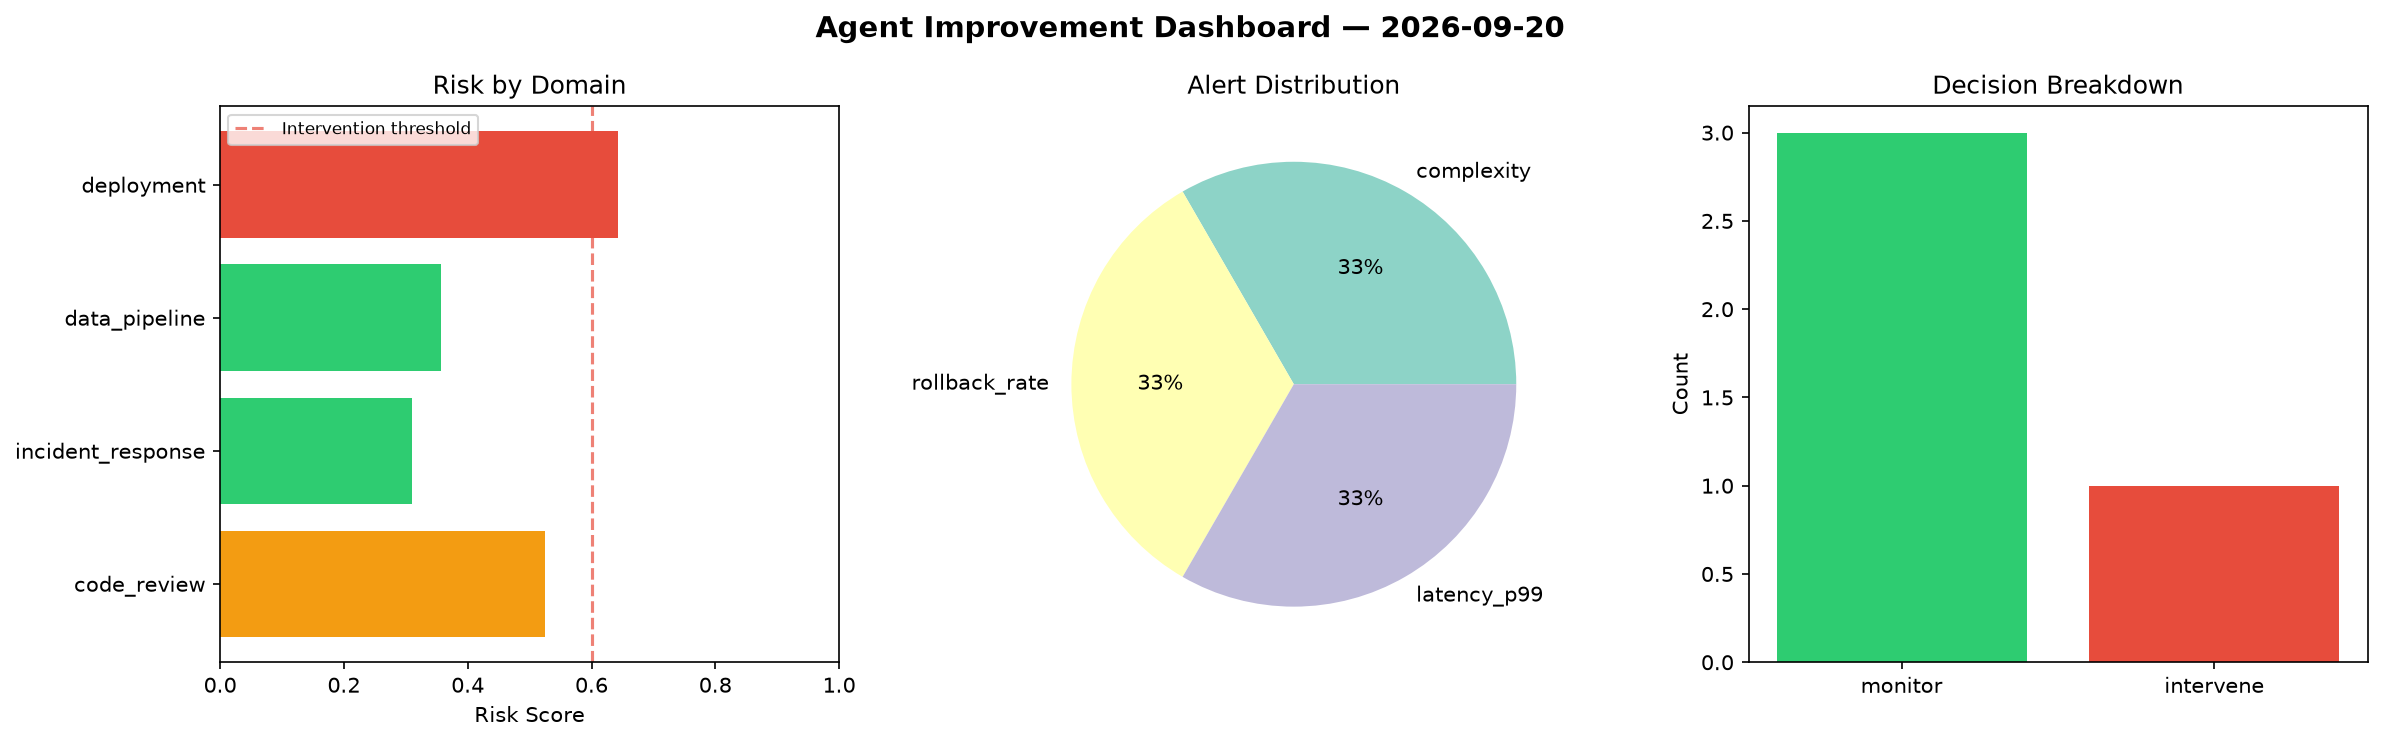
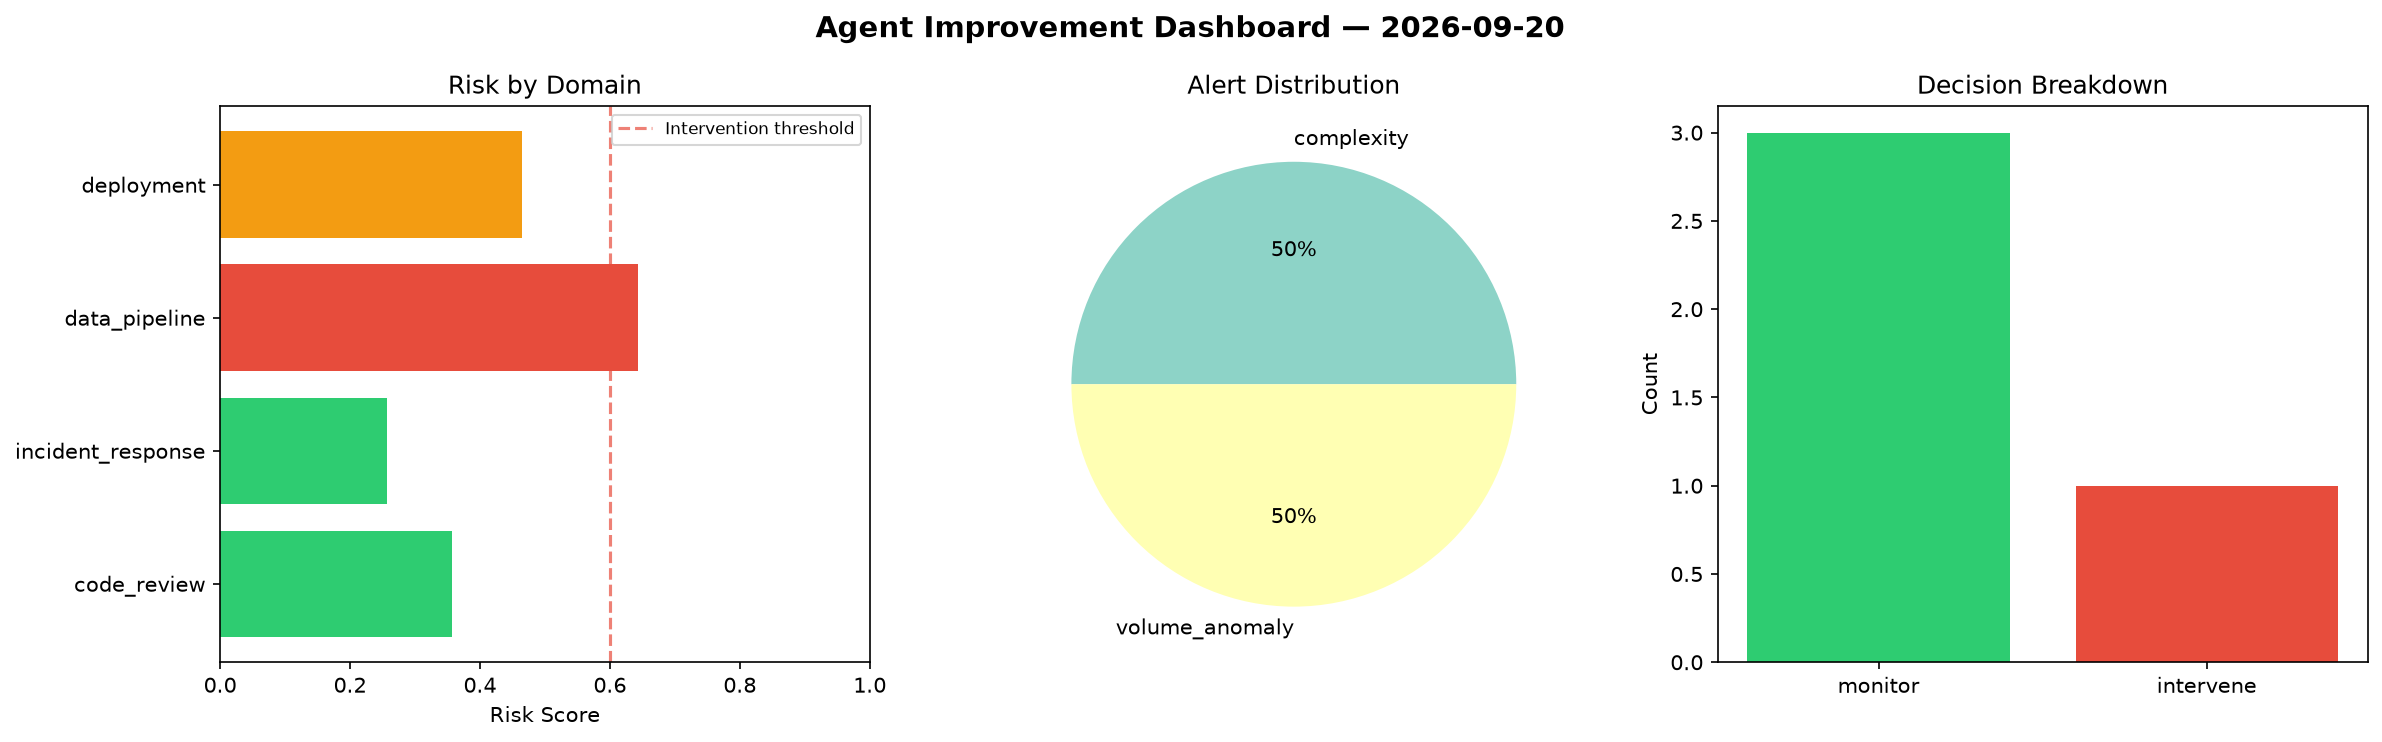
agent-improvement: daily cycle 2026-09-20T17:29

diff --git a/logs/2026-09-20.md b/logs/2026-09-20.md
@@ -1,6 +1,6 @@
 # Agent Improvement Report — 2026-09-20
 
-**Cycle ID:** `029e94cf` | **Avg Risk:** 0.4591 | **Interventions:** 1/4
+**Cycle ID:** `49d2297d` | **Avg Risk:** 0.4307 | **Interventions:** 1/4
 
 ![Dashboard](2026-09-20_dashboard.png)
 
@@ -10,18 +10,18 @@
 
 | Domain | Risk Score | Decision | Alerts |
 |--------|-----------|----------|--------|
-| code_review | 0.5251 | monitor | complexity |
-| incident_response | 0.3101 | monitor | none |
-| data_pipeline | 0.3576 | monitor | none |
-| deployment | 0.6435 | intervene | rollback_rate, latency_p99 |
+| code_review | 0.3576 | monitor | complexity |
+| incident_response | 0.2572 | monitor | none |
+| data_pipeline | 0.643 | intervene | volume_anomaly |
+| deployment | 0.465 | monitor | none |
 
 ## Delta vs Yesterday
 
 | Domain | Today | Yesterday | Change |
 |--------|-------|-----------|--------|
-| code_review | 0.5251 | 0.5162 | 📈 1.7% |
-| incident_response | 0.3101 | 0.3858 | 📉 -19.6% |
-| data_pipeline | 0.3576 | 0.3703 | 📉 -3.4% |
-| deployment | 0.6435 | 0.8378 | 📉 -23.2% |
+| code_review | 0.3576 | 0.5162 | 📉 -30.7% |
+| incident_response | 0.2572 | 0.3858 | 📉 -33.3% |
+| data_pipeline | 0.643 | 0.3703 | 📈 73.6% |
+| deployment | 0.465 | 0.8378 | 📉 -44.5% |
 
 **Refinement:** `{'adjustment': 'tighten_thresholds', 'trend': 'degrading', 'window': 4}`
